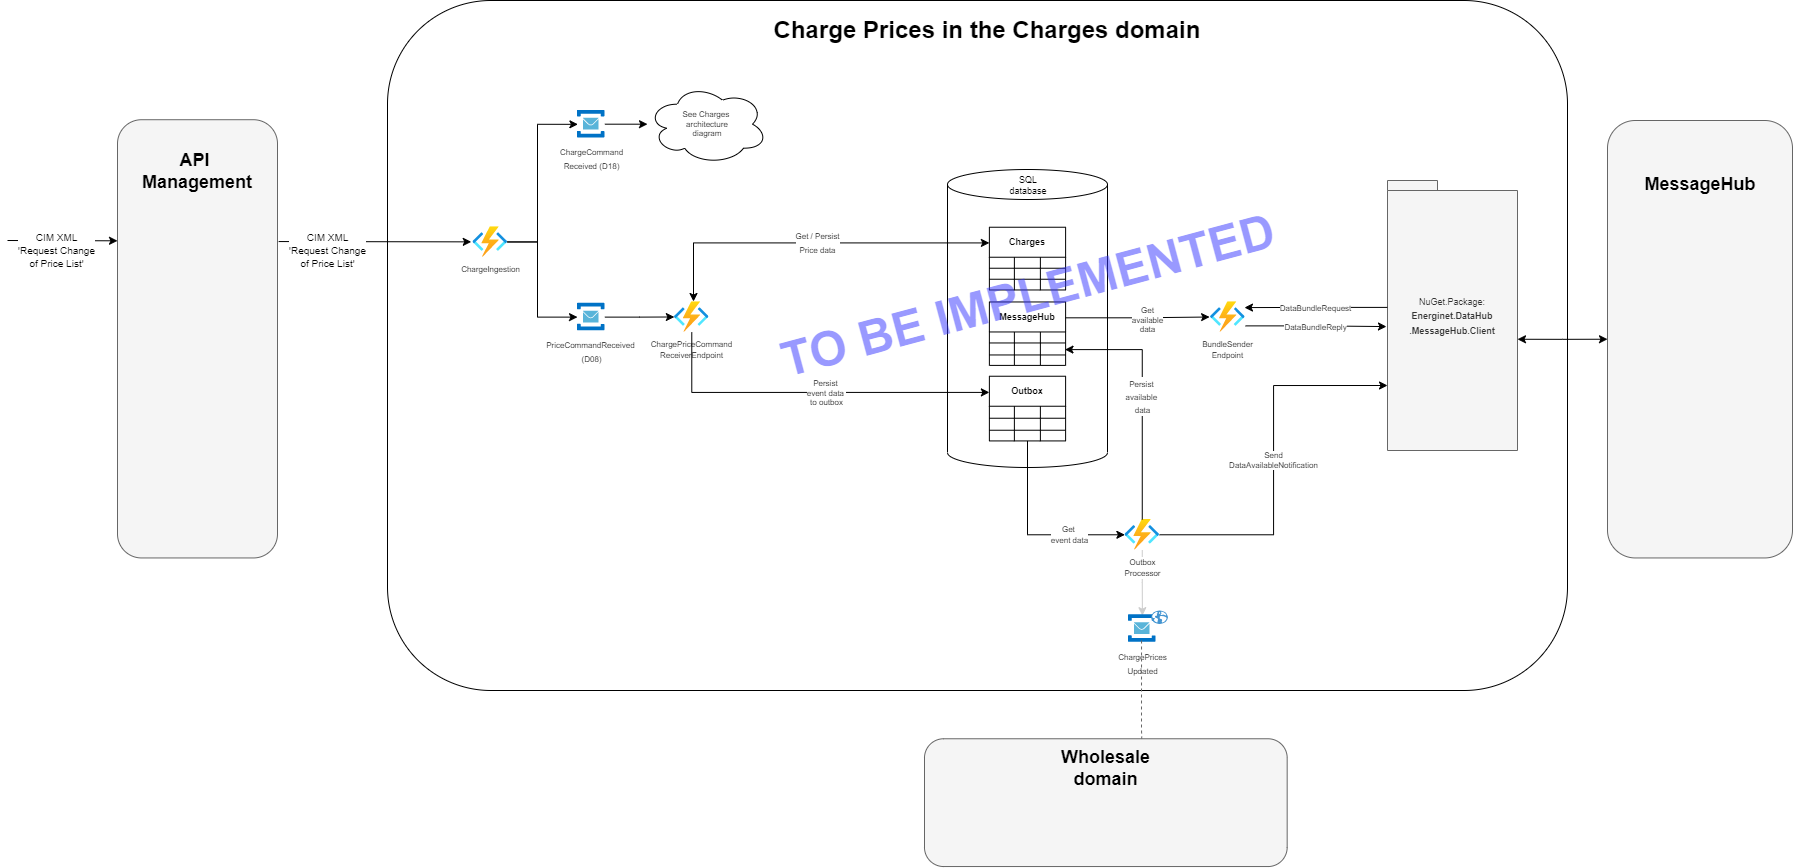
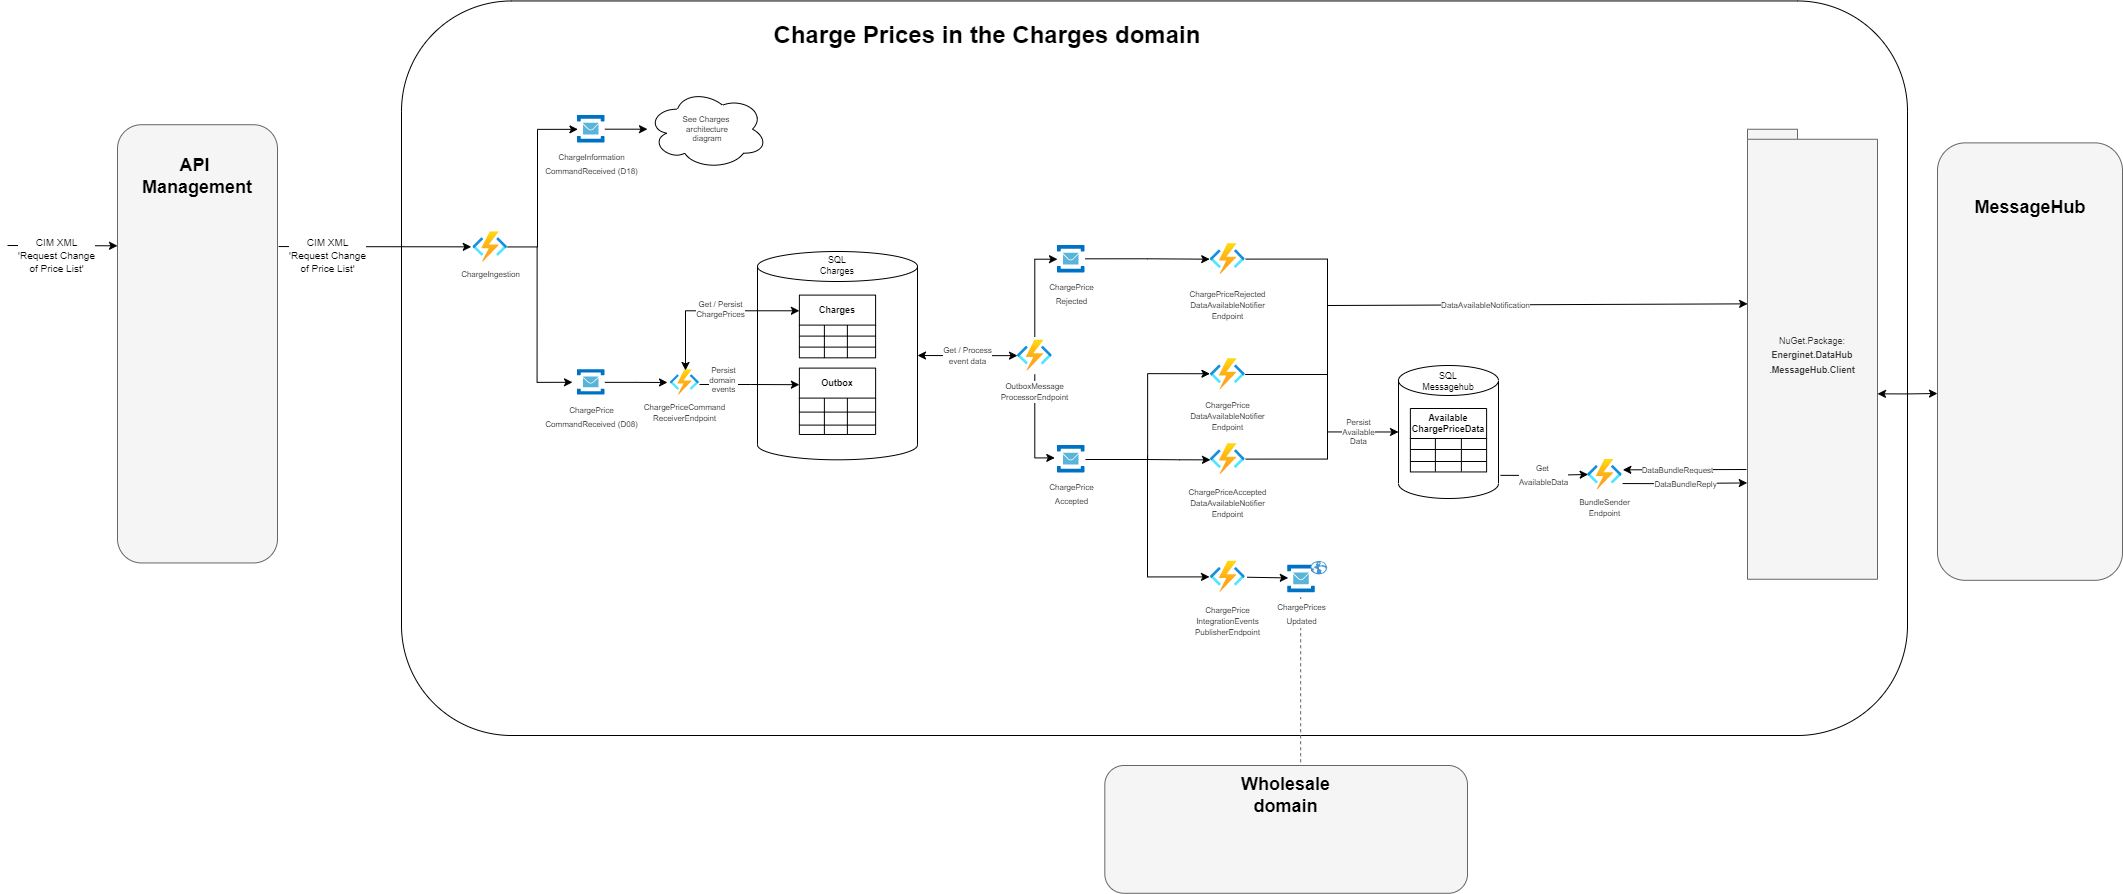
doc: Charge Prices architecture and process flow diagram update (#1661)
If applied, updates the Charge Prices Architecture diagram and process flow to 
match current implementation

#939

diff --git a/README.md b/README.md
@@ -32,18 +32,16 @@ Learn how to get a development environment up and running for development, debug
 
 The architecture diagrams below illustrate both current state of the Charges domain as well as future work, last-mentioned being illustrated by grey arrows and components with lowered opacity.
 
-The diagrams depict the architecture of `Charge and Charge Prices` and `Charge Links`, respectively.
+The diagrams depict the architecture of `Charge Information`, `Charge Prices` and `Charge Links`, respectively.
 
 Please note, all the azure functions displayed in the architecture diagrams are hosted in the same function host.
 Also, some components have singular names while others have plural names. This is intended. The components using plural may need to process a bundle of e.g. charge links to determine whether an operation, e.g. validation, was successful.
 
-### Charge and charge prices architecture
+### Charge Information architecture
 
-![Charge And Charge Prices](ARCHITECTURE-ChargeAndChargePrices.png)
+![Charge And Charge Prices](ARCHITECTURE-ChargeInformation.png)
 
 ### Charge Prices architecture
-
-Below diagram illustrates our ongoing work building a separate architectural path for handling Charge Prices. So please consider this as 'to be implemented'.
 
 ![Charge Prices](ARCHITECTURE-ChargePrices.png)
 

diff --git a/docs/process-flows/README.md b/docs/process-flows/README.md
@@ -2,18 +2,18 @@
 
 All process flows within the Charges domain will be gathered here.
 
-- [Charge Price List Flow](#Charge-Price-List-Flow)
+- [Process Flow For Charge Information And Charge Prices](#Process-Flow-For-Charge-Information-And-Charge-Prices)
     - [Persist Charge Information](#Persist-Charge-Information)
     - [Persist Charge Prices](#Persist-Charge-Prices)
         - [Irregular Price Series](#Irregular-Price-Series)
 - [Charge Link Flow](#Charge-Link-Flow)
 
-## Charge Price List Flow
+## Process Flow For Charge Information And Charge Prices
 
-The following image depicts the charge price list flow.
-It also shows the micro services involved along with the activities they perform.
+Below process flow covers both the handling of `Charge Information` and `Charge Prices` requests as they are rather similar.
+This is also the reason why generic event names are applied. Event names will be prefixed with either `ChargeInformation` or `ChargePrices` in the source code.
 
-![Charge flow](images/ChargePriceListProcessFlow.png)
+![Charge flow](images/ChargeInformationAndPricesProcessFlow.png)
 
 ### Persist Charge Information
 
